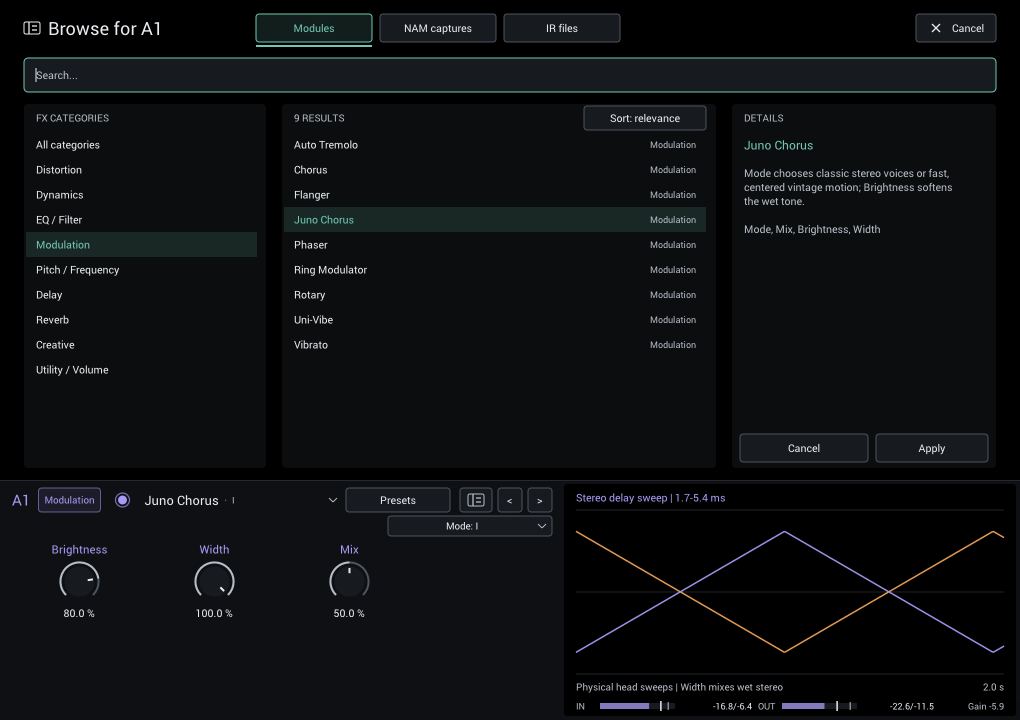
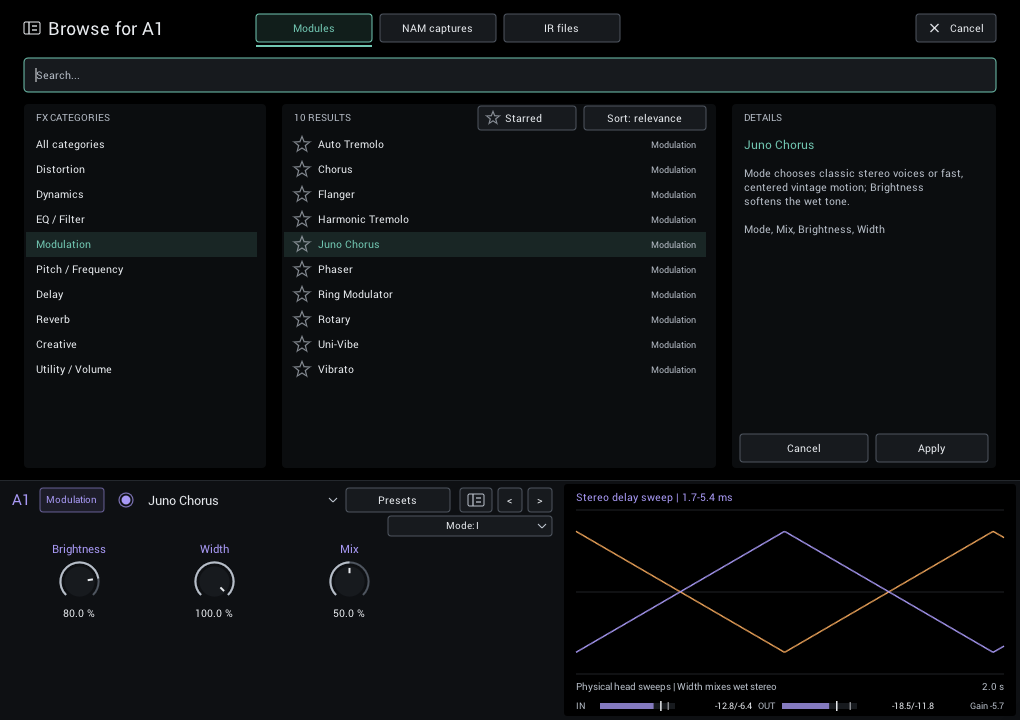
Open Signal Monitor from grid output meters

diff --git a/NeuralAmpModeler/NAMGridControls.h b/NeuralAmpModeler/NAMGridControls.h
@@ -895,20 +895,13 @@ private:
   std::array<LevelReadout, 2> mLevels;
   double mTick = Now(), mClipUntil = 0.;
 };
-class MonitorTap : public IControl
+class SlotMeterTap : public IControl
 {
 public:
-  MonitorTap(const IRECT& r, int point) : IControl(r), mPoint(point)
-  { SetTooltip("Inspect the stereo signal after this slot, including when empty or bypassed."); }
+  SlotMeterTap(const IRECT& r, int point) : IControl(r), mPoint(point)
+  { SetTooltip("Click the output meter to inspect the stereo signal after this slot, including when empty or bypassed."); }
   void OnMouseDown(float, float, const IMouseMod&) override { PLUG()->ShowSignalMonitor(mPoint); }
-  void Draw(IGraphics& g) override
-  {
-    const bool selected = PLUG()->SignalMonitorPoint() == mPoint;
-    const auto ink = selected ? accent : mMouseIsOver ? muted : border;
-    g.FillCircle(background, mRECT.MW(), mRECT.MH(), 5.f);
-    g.DrawCircle(ink, mRECT.MW(), mRECT.MH(), 4.f, nullptr, 1.5f);
-    if (selected) g.FillCircle(accent, mRECT.MW(), mRECT.MH(), 2.f);
-  }
+  void Draw(IGraphics&) override {} // The slot card draws the meter beneath this hit target.
 private:
   int mPoint;
 };
@@ -1454,11 +1447,13 @@ public:
     if (enabled && PLUG()->IsSlotLoaded(mSlot))
     {
       if (mSlot != 0) // The global IN meter already covers the first slot's input.
-        DrawMeterBar(g, IRECT(mCardBounds.L - 7, mCardBounds.T + 5, mCardBounds.L - 4, mCardBounds.B - 5), mMeter.input,
+        DrawMeterBar(g, IRECT(mCardBounds.L - 8, mCardBounds.T + 5, mCardBounds.L - 4, mCardBounds.B - 5), mMeter.input,
                      tone.first, Now() < mInputClip);
-      DrawMeterBar(g, IRECT(mCardBounds.R + 4, mCardBounds.T + 5, mCardBounds.R + 7, mCardBounds.B - 5), mMeter.output,
-                   tone.first, Now() < mOutputClip);
     }
+    // Keep the monitor target visible even for an empty or bypassed slot.
+    const bool metering = enabled && PLUG()->IsSlotLoaded(mSlot);
+    DrawMeterBar(g, IRECT(mCardBounds.R + 4, mCardBounds.T + 5, mCardBounds.R + 8, mCardBounds.B - 5),
+                 metering ? mMeter.output : 0., metering ? tone.first : border, metering && Now() < mOutputClip);
     DrawDrop(g);
   }
   void LayoutHeader(IGraphics& g, bool draw)

diff --git a/tests/clap_smoke.cpp b/tests/clap_smoke.cpp
@@ -1870,7 +1870,7 @@ int main(int argc, char** argv)
     assert(SetKeyboardState(previous)); pumpFor(20);
   };
   // On-demand inspection must cover the module's controls without changing the
-  // rig. Exercise both meters and every wire, then each supported way back.
+  // rig. Exercise the global meters and every slot output meter, then each way back.
   {
     auto rig = browserState;
     rig["SlotEffects"][0] = static_cast<int>(SlotEffect::Utility);
@@ -1880,7 +1880,7 @@ int main(int argc, char** argv)
       load(rig); selectTile(170, 120);
       const auto before = save().config();
       const int x = point == -1 ? 95 : point == 16 ? grid_layout::width - 71
-        : grid_layout::cardLeft + grid_layout::columnPitch * (point % 4) + (point == 15 ? 193 : 200);
+        : grid_layout::cardLeft + grid_layout::columnPitch * (point % 4) + 194;
       const int y = point == -1 ? 80 : point == 16 ? 390
         : grid_layout::cardTop + grid_layout::rowPitch * (point / 4) + grid_layout::cardHeight / 2;
       click(x, y); dragAt(knobX, knobY);
@@ -1902,7 +1902,7 @@ int main(int argc, char** argv)
       assert(save().config()["Pre 1 Utility Width"] != before["Pre 1 Utility Width"]);
     }
     load(browserState); selectTile(170, 120);
-    std::cout << "On-demand monitor meters, wire taps, state isolation and panel exits passed\n";
+    std::cout << "On-demand monitor meters, state isolation and panel exits passed\n";
   }
   const auto typeBrowserSearch = [&](const std::string& query) {
     if (IsWindowVisible(editor)) assert(GetFocus() == editor);

diff --git a/NeuralAmpModeler/NeuralAmpModeler.cpp b/NeuralAmpModeler/NeuralAmpModeler.cpp
@@ -287,12 +287,12 @@ NeuralAmpModeler::NeuralAmpModeler(const InstanceInfo& info)
     ui->AttachControl(new grid_ui::FlowMeter(IRECT(72 + gridOffset, 68, 79 + gridOffset, 140), IRECT(4, 140, sidebarRight, 158), -1), kCtrlTagInputMeter);
     ui->AttachControl(new grid_ui::FlowMeter(IRECT(width - 74, 380, width - 67, 452), IRECT(width - 68, 450, width, 468), 16), kCtrlTagOutputMeter);
     ui->AttachControl(new NAMGridMacroControl(IRECT(0, 170, sidebarRight, 468)), kCtrlTagMainMacros)->Hide(!mShowMainMacros);
-    // The gaps between cards expose the output of the preceding physical slot.
+    // Each output meter opens its slot's monitor; pad the thin strip for clicking.
     for (int slot = 0; slot < 16; ++slot)
     {
       const float left = cardLeft + columnPitch * (slot % 4) + 188.f;
-      const float y = cardTop + rowPitch * (slot / 4) + cardHeight * .5f;
-      ui->AttachControl(new grid_ui::MonitorTap(IRECT(left, y - 12, left + (slot == 15 ? 10.f : 24.f), y + 12), slot));
+      const float top = cardTop + rowPitch * (slot / 4);
+      ui->AttachControl(new grid_ui::SlotMeterTap(IRECT(left + 2.f, top + 3.f, left + 10.f, top + cardHeight - 3.f), slot));
     }
     ui->AttachControl(new NAMGridSignalMonitorControl(IRECT(0, editorTop, width, height)), kCtrlTagSignalMonitor)->Hide(true);
     ui->AttachControl(new NAMGridSettingsControl(b), kCtrlTagSettingsBox)->Hide(true);

diff --git a/CHANGELOG.md b/CHANGELOG.md
@@ -9,7 +9,7 @@ All notable user-facing changes to NAM Grid are documented here, newest first. S
 - **Library stars:** mark modules, NAM captures, IR files and rig presets with the star left of their name in the browser. Each click cycles yellow, orange and red, then back to an empty outline. Turn on **Starred** above the results to list only starred items. Captures and IRs keep their star when moved or renamed, and identical copies share it. Stars are saved in `favorites.json` in your preset folder, so they travel with it to another computer, and they never change how anything sounds.
 - Add Pitch Shift for fixed-interval harmony, octave layers and fine detuning, with four starting presets and a live spectrum. The dry attack stays immediate; the shifted voice has short grain delay and can smear or warble on chords and large shifts.
 
-- **Signal Monitor:** click the input/output meters or the small wire taps between modules to inspect that point in the rig without using a module slot. The on-demand panel shows stereo spectrum and resonance markers, peak/RMS meters, level history, headroom and correlation. Select a module or the tuner, press Escape, or click Close to return. The unreleased monitor module has been removed; saved development rigs containing it are no longer supported.
+- **Signal Monitor:** click the global input/output meters or a slot's output meter to inspect that point in the rig without using a module slot. Module meters are 1 px wider, and the grid wires stay clear of tap dots. The on-demand panel shows stereo spectrum and resonance markers, peak/RMS meters, level history, headroom and correlation. Select a module or the tuner, press Escape, or click Close to return. The unreleased monitor module has been removed; saved development rigs containing it are no longer supported.
 
 - **Graphic EQ:** A new EQ / Filter module with seven fixed bands and Level, like a stompbox graphic EQ. Voicing sets the band frequencies for guitar, bass or full range, and the knob labels follow it. Presets: Lead mid boost, Tight into amp, Bass clarity and Acoustic air.
 - **Multiband Dynamics:** A new Dynamics module with three bands of upward and downward compression and a Depth blend: from a dense "over the top" sound to a regular multiband compressor that evens out boomy lows or spiky highs. Drag the display to move the band splits and Threshold. Presets: Over the top, Gentle glue, Fast and tight and Clean sparkle.

diff --git a/docs/modules/utility-volume.md b/docs/modules/utility-volume.md
@@ -50,13 +50,13 @@ A volume swell that removes the pick attack and fades each phrase in. Pause belo
 
 ## Signal Monitor
 
-Click an input or output meter, or a small circular tap on the wire after a grid
-slot, to inspect the signal there. The monitor replaces the module editor without
-occupying a slot or changing the rig. Click another tap to move it. Click the same
-tap again, select a module or the tuner, press **Escape**, or click **Close** to leave.
+Click a global input or output meter, or the output meter beside a grid slot,
+to inspect the signal there. The monitor replaces the module editor without
+occupying a slot or changing the rig. Click another meter to move it. Click the same
+meter again, select a module or the tuner, press **Escape**, or click **Close** to leave.
 Input measures after IN gain; Output measures the final signal sent to the host,
-including OUT gain. Slot taps measure that slot's output, even when empty or
-bypassed; lane taps measure their own branch before the lane mix.
+including OUT gain. Slot output meters open the monitor even when empty or
+bypassed; lane output meters inspect their own branch before the lane mix.
 
 - **Spectrum:** the louder channel at each frequency, rather than a mono sum.
   Opposite-polarity stereo cannot disappear from the spectrum through cancellation.

diff --git a/docs/ui.md b/docs/ui.md
@@ -29,11 +29,11 @@ Delete or Backspace clears the selected module when the grid is open. While typi
 
 ## Inspect the signal
 
-Click the input/output meters or the small circular taps on the grid wires to
+Click the global input/output meters or a grid slot's output meter to
 open the [Signal Monitor](modules/utility-volume.md#signal-monitor) at that point.
 It uses the lower editor panel and leaves every module slot available. Click
 another point to move it; select a module or the tuner, press **Escape**, or click
-**Close** to return. The same meter or tap also toggles it closed. Monitoring is
+**Close** to return. The same meter also toggles it closed. Monitoring is
 transient and is not saved with the rig.
 
 ## Shape a module
